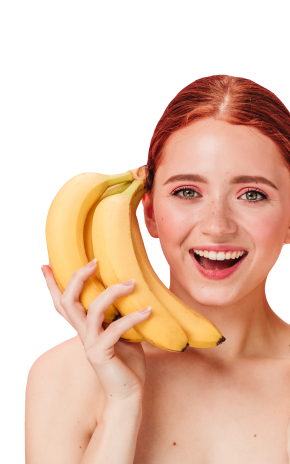
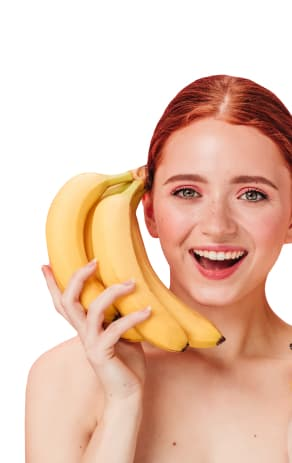
fixed pictures

diff --git a/src/partials/order-modal.html b/src/partials/order-modal.html
@@ -22,11 +22,20 @@
                     <div class="picture picture-strawberry">
                       <img 
                       class="strawberry-imaging"
-                      srcset="./img/modal-fruits/strawberry-basket_mob.png 1x,
-                      ./img/modal-fruits/strawberry-basket_mob@2x.png 2x" 
+                      srcset="
+                      ./img/modal-fruits/img-1_88.png 88w,
+                      ./img/modal-fruits/img-1_133.png 133w,
+                      ./img/modal-fruits/img-1_172.png 172w,
+                      ./img/modal-fruits/img-1_173.png 173w,
+                      ./img/modal-fruits/img-1_266.png 266w,
+                      ./img/modal-fruits/img-1_346.png 346w
+                      "
+                      sizes="(min-width: 1280px) 173px, (min-width: 768px) 133px, 
+                      (min-width: 375px) 88px, 100vw" 
                       src="./img/modal-fruits/strawberry-basket_mob.png"              
                       alt="strawberry"
-                      width="88"
+                      width="173"
+                      height="196"
                       >
                     </div>
                     <input 
@@ -49,8 +58,15 @@
                       <img
                       class="apple-img"
                       srcset="
-                      ./img/modal-fruits/fruits-bag_mob.png 1x,
-                      ./img/modal-fruits/fruits-bag_mob@2x.png 2x"
+                      ./img/modal-fruits/img-2_106.png 106w,
+                      ./img/modal-fruits/img-2_172.png 172w,
+                      ./img/modal-fruits/img-2_212.png 212w,
+                      ./img/modal-fruits/img-2_229.png 229w,
+                      ./img/modal-fruits/img-2_344.png 344w,
+                      ./img/modal-fruits/img-2_458.png 458w
+                      "
+                      sizes="(min-width: 1280px) 229px, (min-width: 768px) 172px, 
+                      (min-width: 375px) 106px, 100vw"
                       src="./img/modal-fruits/fruits-bag_mob.png"
                       alt="apple"
                       width="229"
@@ -73,8 +89,16 @@
                     <div class="picture picture-fruits">
                       <img
                       class="plate-imaging"
-                      srcset="./img/modal-fruits/fruits-plate_mob.png 1x,
-                      ./img/modal-fruits/fruits-plate_mob@2x.png 2x" 
+                      srcset="
+                      ./img/modal-fruits/img-3_107.png 107w,
+                      ./img/modal-fruits/img-3_172.png 172w,
+                      ./img/modal-fruits/img-3_214.png 214w,
+                      ./img/modal-fruits/img-3_229.png 229w,
+                      ./img/modal-fruits/img-3_344.png 344w,
+                      ./img/modal-fruits/img-3_458.png 458w
+                      "
+                      sizes="(min-width: 1280px) 229px, (min-width: 768px) 172px, 
+                      (min-width: 375px) 107px, 100vw" 
                       src="./img/modal-fruits/fruits-plate_mob.png" 
                       alt="fruits"
                       width="107"

diff --git a/src/css/order.css b/src/css/order.css
@@ -61,6 +61,7 @@
     background-image: url(../img/modal-fruits/background_tab.jpg);
     background-repeat: no-repeat;
     background-position: right bottom;
+    background-size: 301px 467px;
   }
     @media (min-device-pixel-ratio: 2),
     (min-resolution: 192dpi),
@@ -69,6 +70,7 @@
         background-image: url(../img/modal-fruits/background_tab@2x.jpg);
         background-repeat: no-repeat;
         background-position: right bottom;
+        background-size: 301px 467px;
       }
     }
 }
